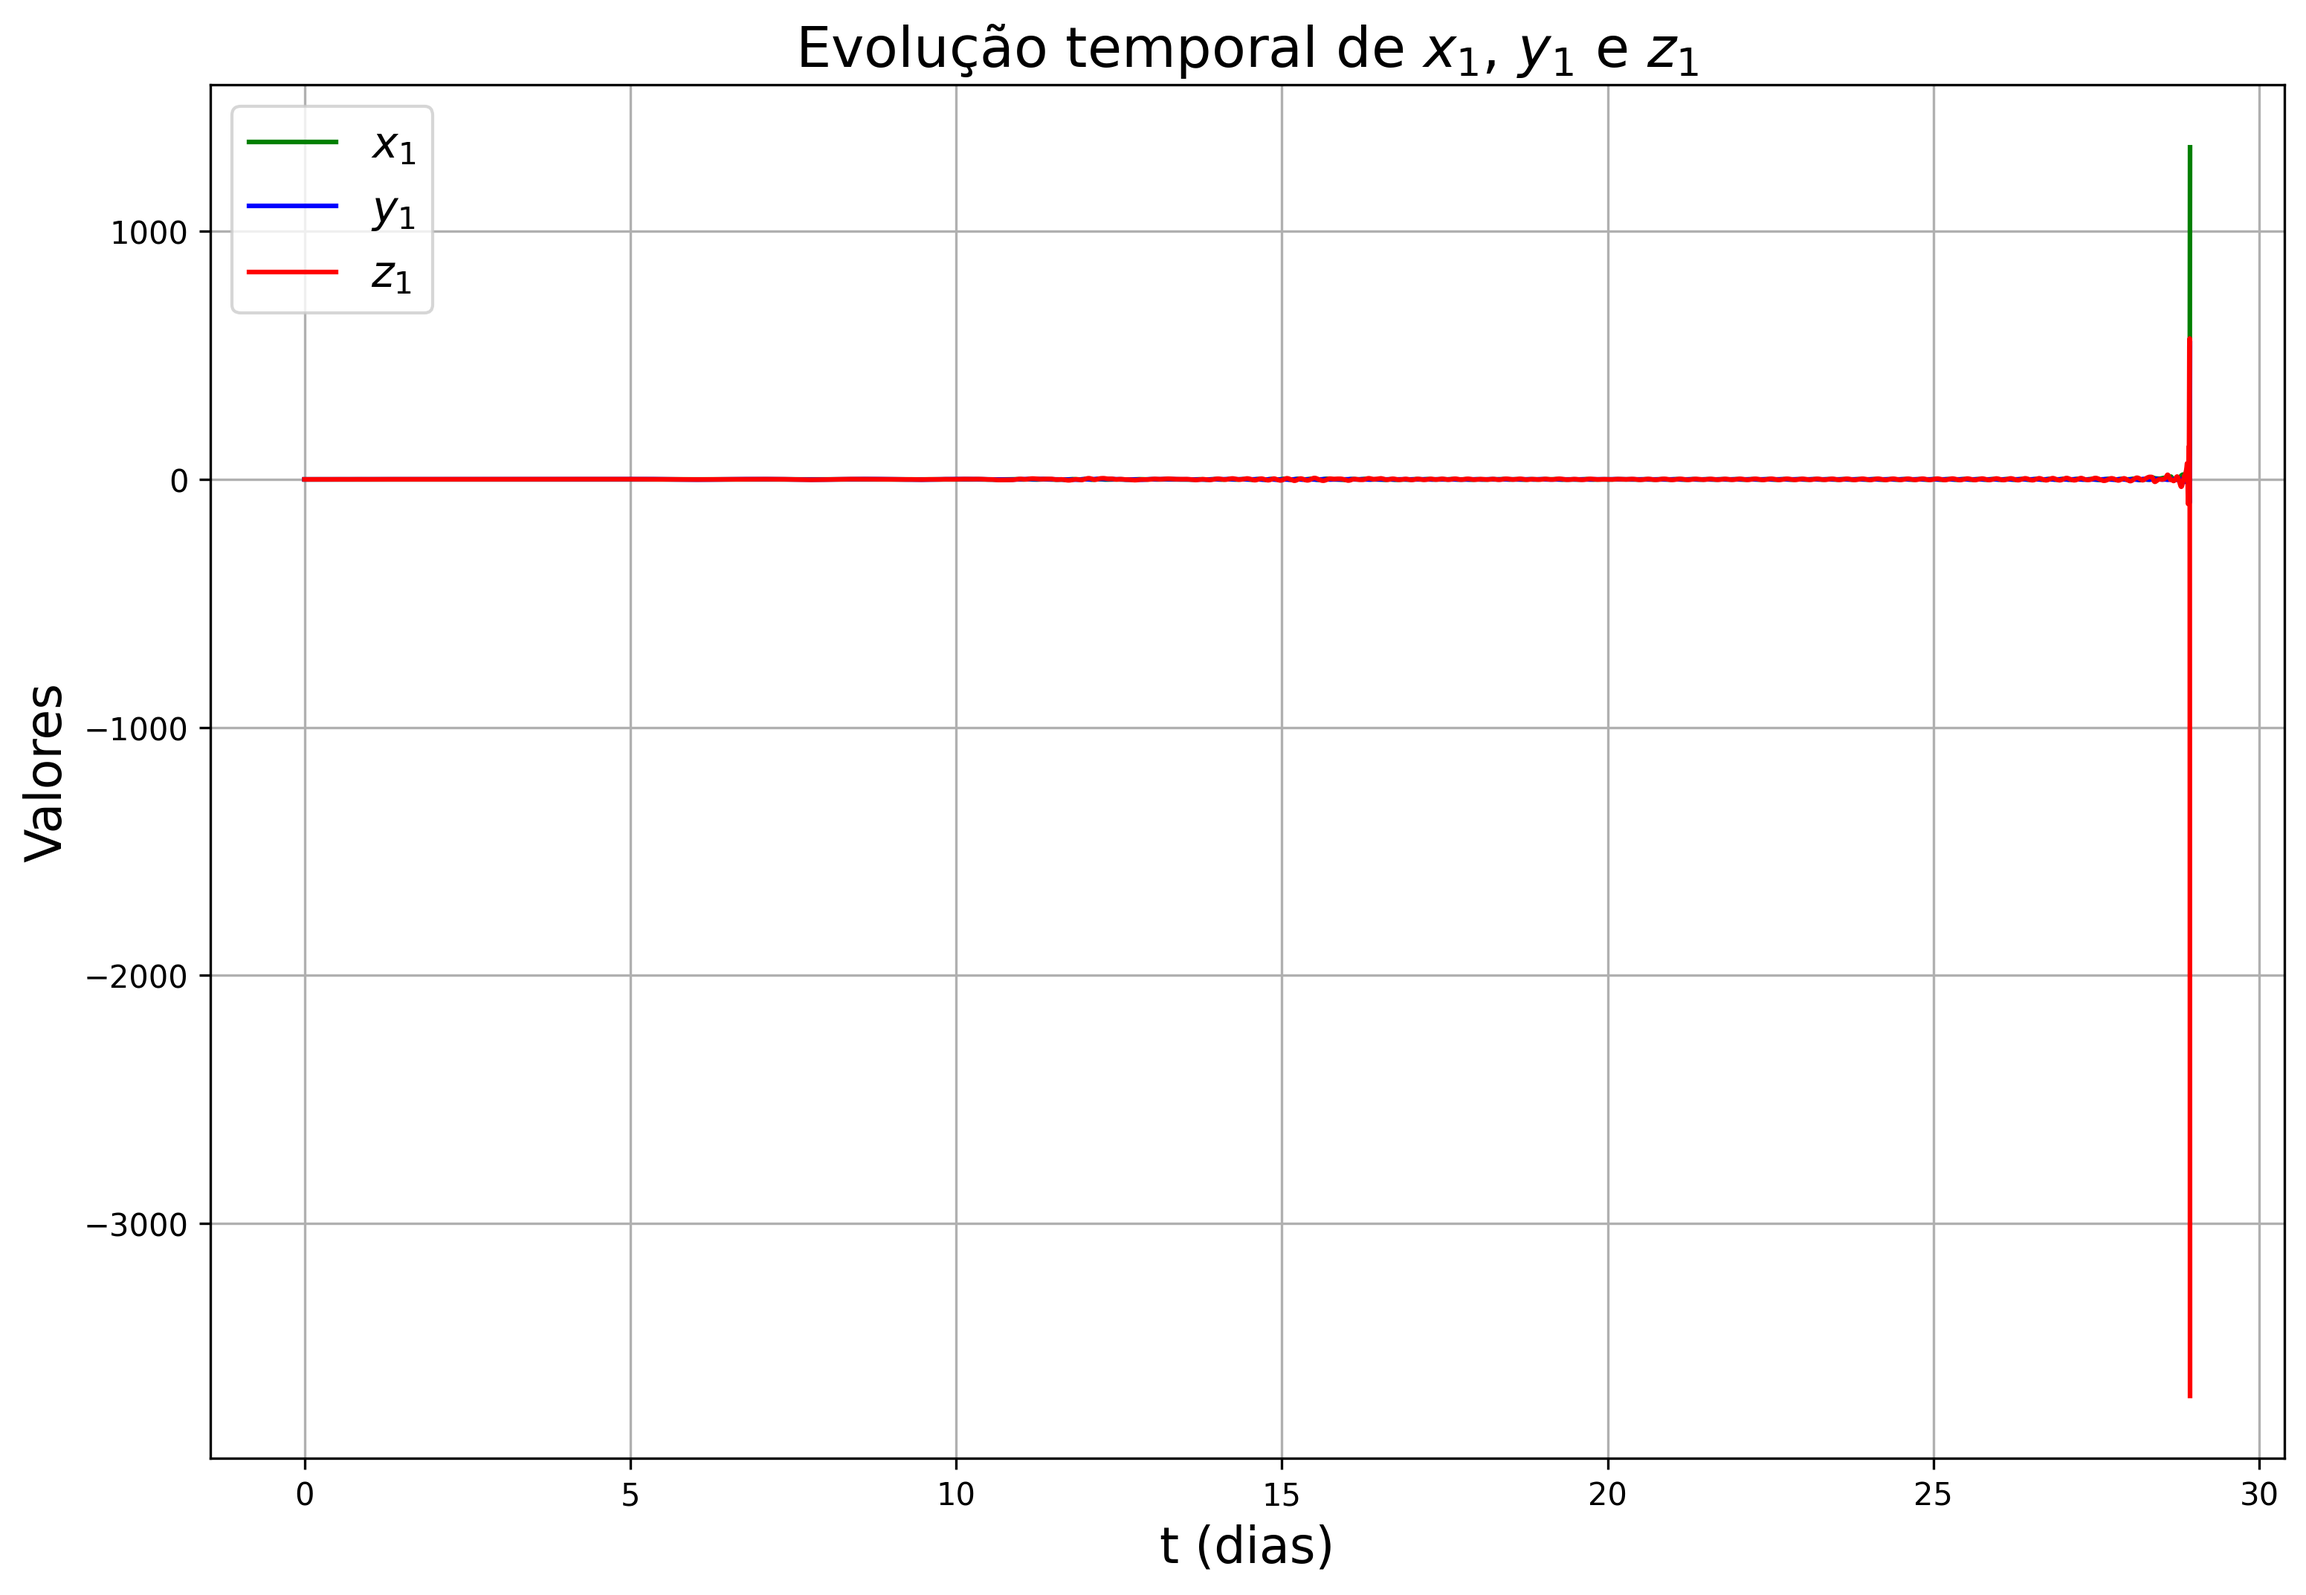
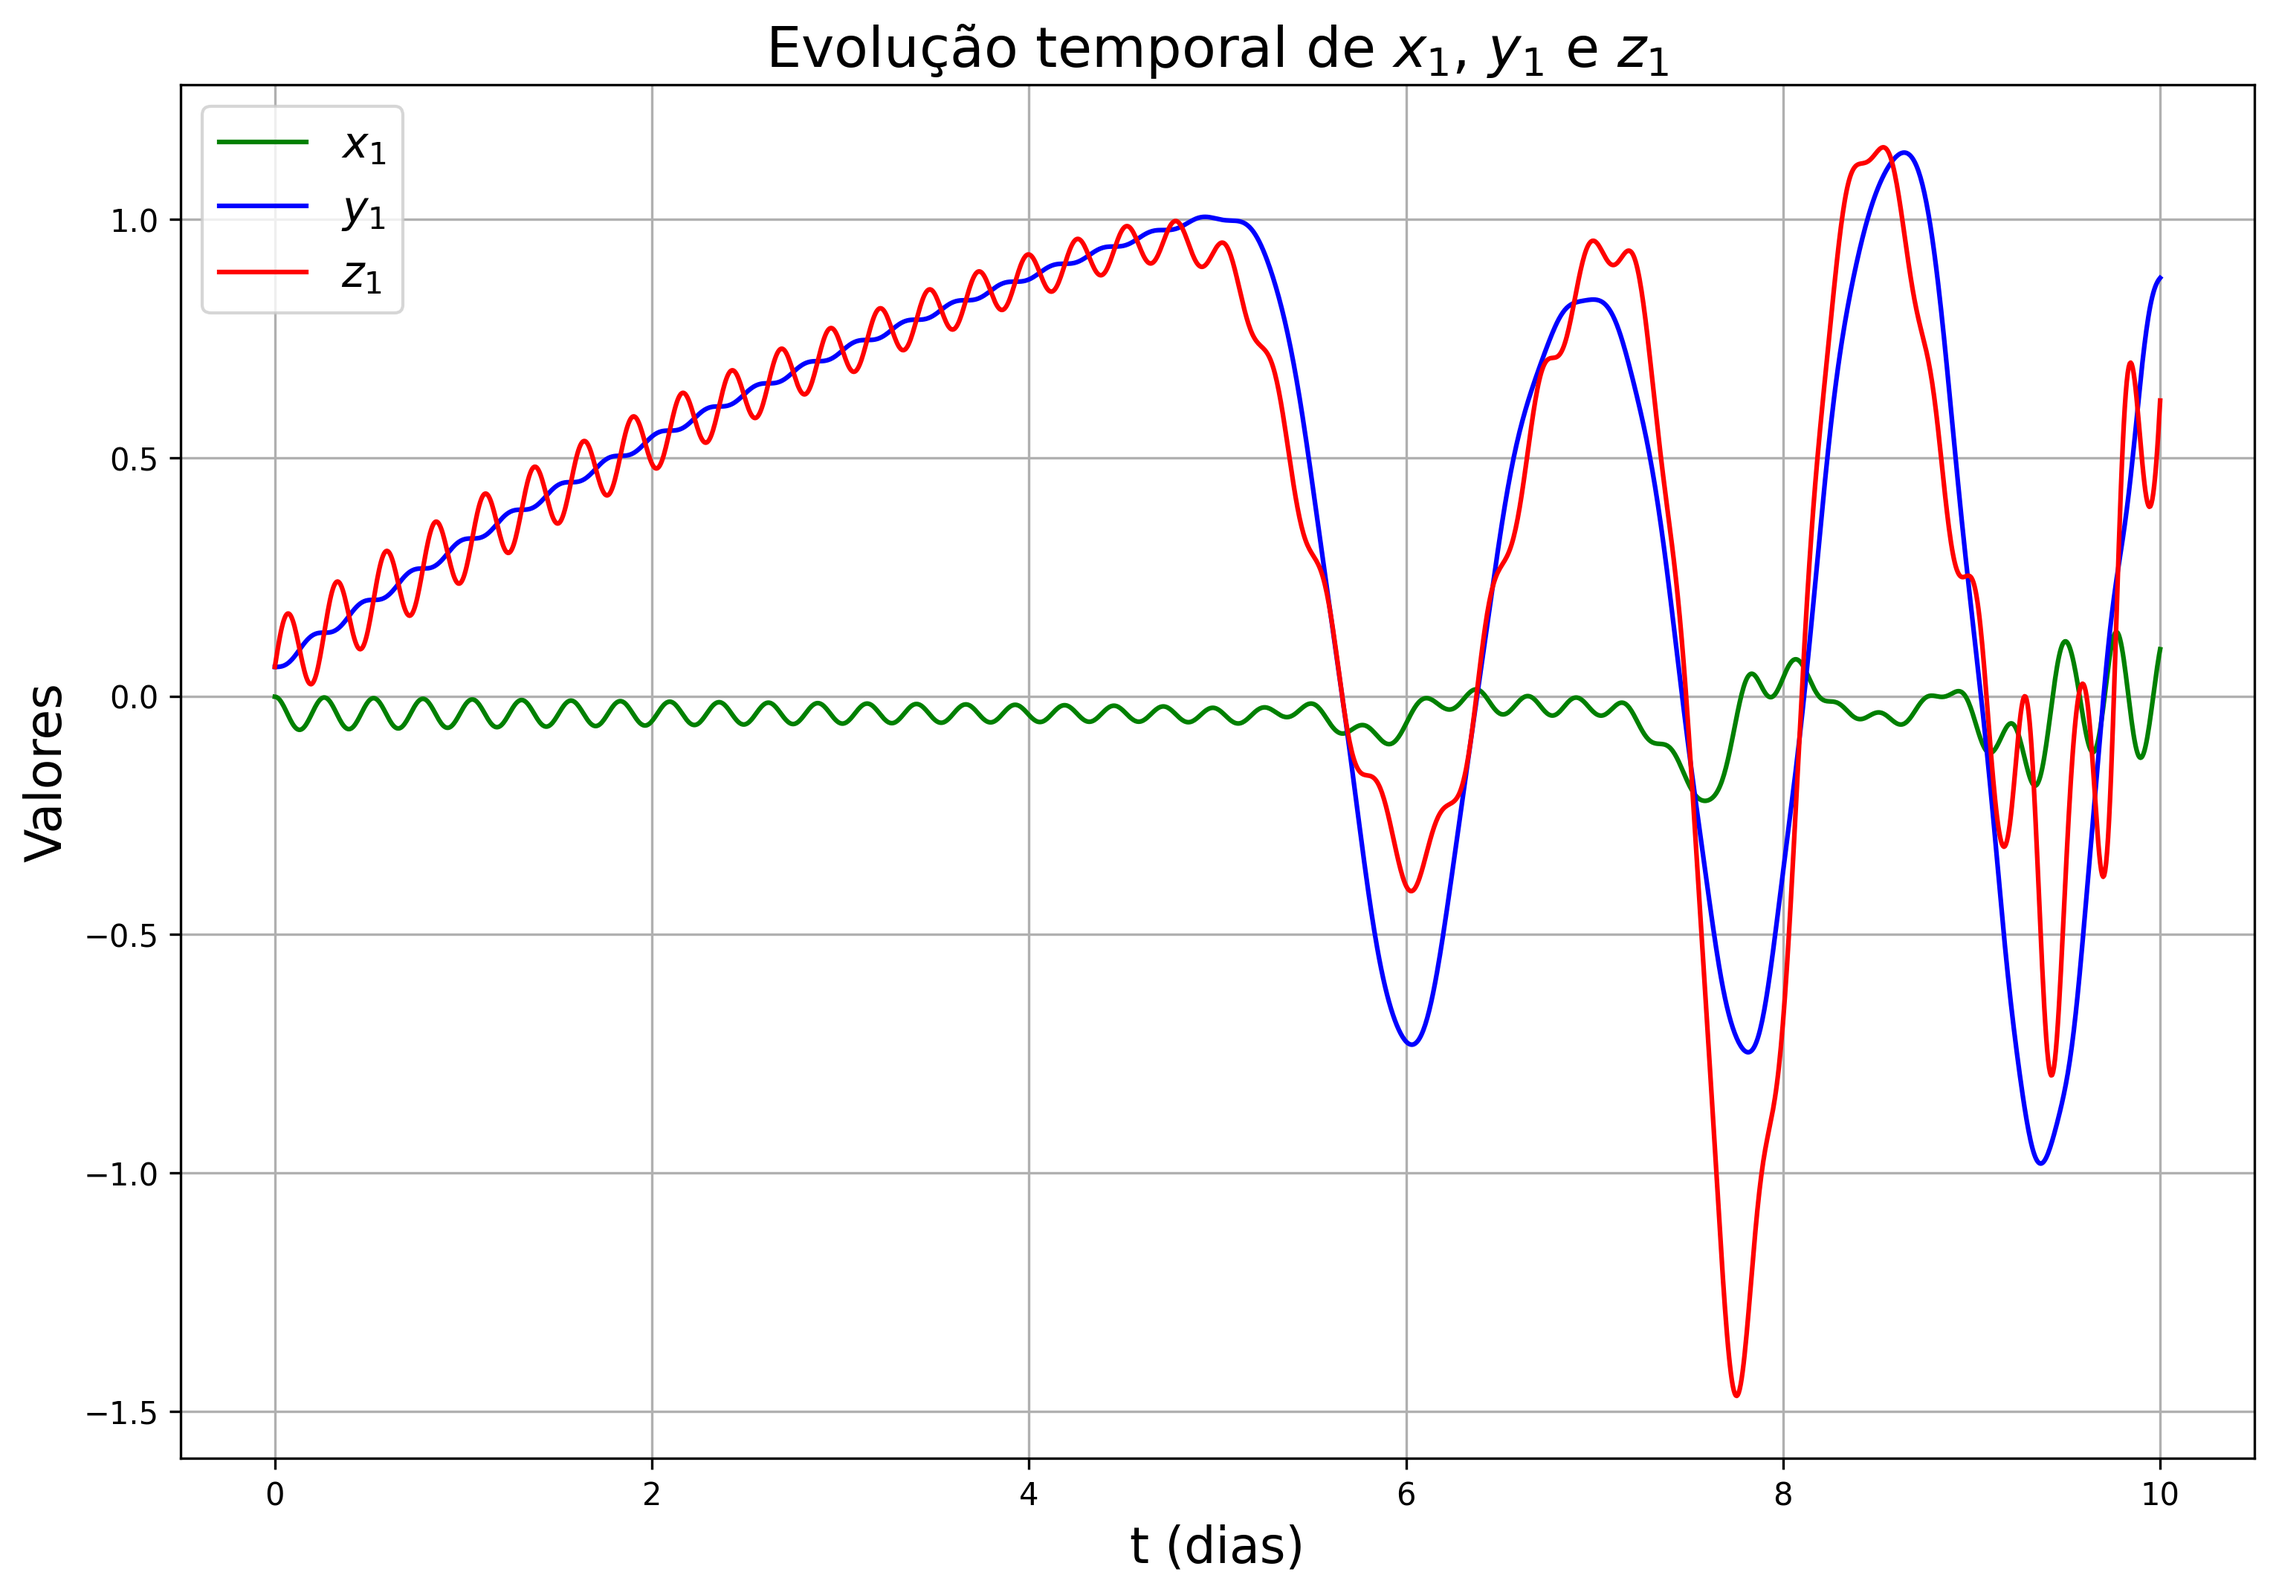
yeahh

diff --git a/06_LORENZ_80/simulations.py b/06_LORENZ_80/simulations.py
@@ -66,7 +66,7 @@ def simulate(x_initial, y_initial, z_initial, days):
     return sol.t / 8, sol.y[:3].T, sol.y[3:6].T, sol.y[6:].T
 
 # DIAS AQUI!!!!!!!1
-hadley01_days = 400
+hadley01_days = 10
 
 y1 = (vector_f[0] / vector_a[1]) * nu_0 * (1 + vector_a[1] * g_0 + (nu_0**2) * (vector_a[1] ** 2))
 z1 = (1 + (nu_0**2) * (vector_a[1] ** 2)) * y1
@@ -103,7 +103,7 @@ df = pd.DataFrame(
 BASE = Path(__file__).resolve().parent
 DATADIR = BASE / "data"
 DATADIR.mkdir(parents=True, exist_ok=True)
-out_file = DATADIR / "python0327.csv"
+out_file = DATADIR / "python327.csv"
 df.to_csv(out_file, index=False)
 
 print(f"CSV salvo em: {out_file}")

diff --git a/06_LORENZ_80/plot_grafico.py b/06_LORENZ_80/plot_grafico.py
@@ -4,10 +4,10 @@ from pathlib import Path
 
 # Caminhos
 BASE = Path(__file__).resolve().parent
-DATA = BASE / "data" / "python0697.csv"
+DATA = BASE / "data" / "python327.csv"
 OUTDIR = BASE / "src"
 OUTDIR.mkdir(parents=True, exist_ok=True)
-OUTPNG = OUTDIR / "evolucao_xyz_python0697.png"
+OUTPNG = OUTDIR / "evolucao_xyz_python327.png"
 
 # Ler CSV
 df = pd.read_csv(DATA)
